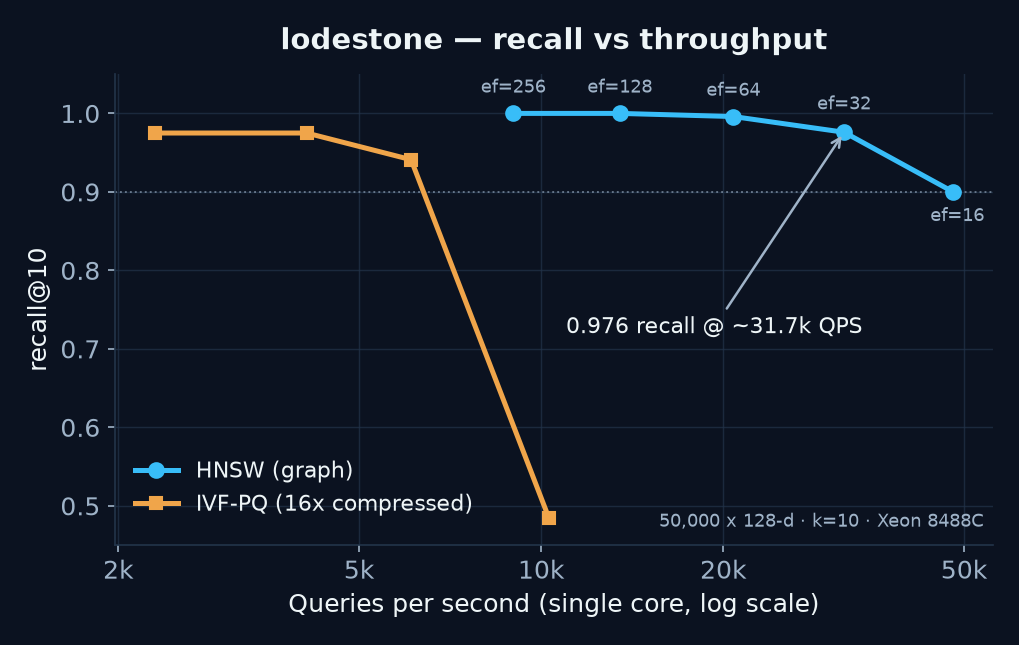
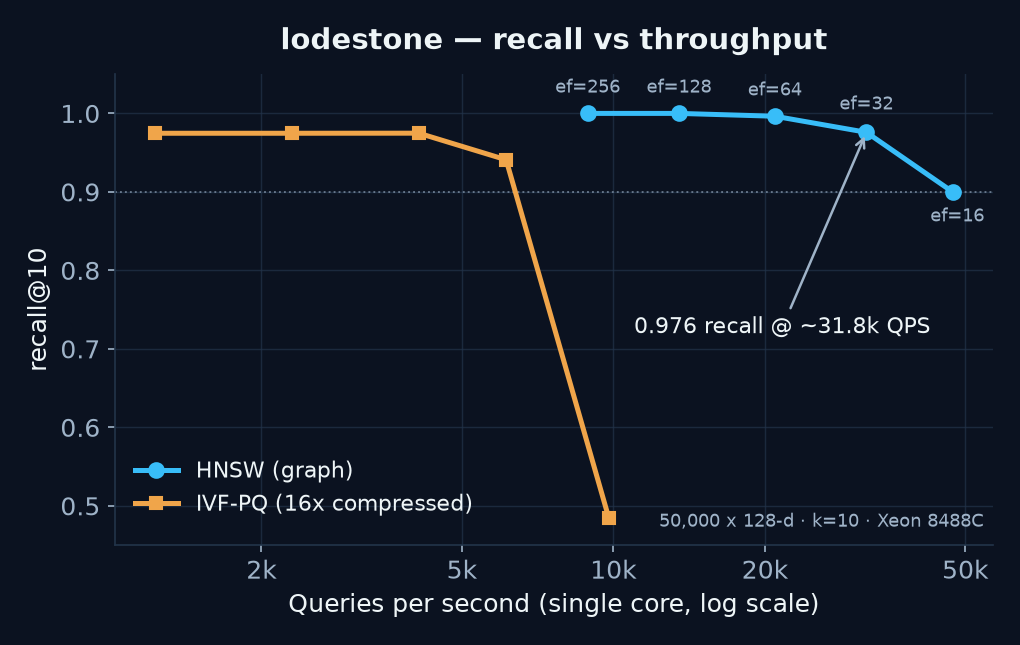
README+plot: use exact raw benchmark numbers, not rounded
The README table and benchmark plot rounded QPS loosely (e.g. 48,000 vs
raw 47,335; IVF-PQ nprobe=1 showed 10,300 vs raw 9,797) and dropped the
nprobe=32 row. Use the exact values from benchmarks/raw/bench_50k_128d.txt
everywhere so a reader comparing to the committed artifact sees an exact
match. Regenerated docs/benchmark.png to match.

diff --git a/README.md b/README.md
@@ -45,30 +45,31 @@ Host: Intel Xeon Platinum 8488C (48 vCPU, AVX-512), Rust 1.95, single-core query
 timing. Corpus: 50,000 × 128-d seeded clustered vectors, 1,000 held-out queries,
 k=10. Full raw output: [`benchmarks/raw/bench_50k_128d.txt`](benchmarks/raw/bench_50k_128d.txt).
 
-![recall@10 vs single-core QPS for HNSW and IVF-PQ: HNSW holds 0.976 recall at ~31.7k QPS and reaches 1.0 at higher ef; IVF-PQ trades recall for 16x compression.](docs/benchmark.png)
+![recall@10 vs single-core QPS for HNSW and IVF-PQ: HNSW holds 0.976 recall at ~31.8k QPS and reaches 1.0 at higher ef; IVF-PQ trades recall for 16x compression.](docs/benchmark.png)
 
 ### HNSW (graph index) — recall@10 vs QPS
 
 | `ef` | recall@10 | QPS (1 core) |
 |---:|---:|---:|
-| 16  | 0.900 | 48,000 |
-| 32  | 0.976 | 31,700 |
-| 64  | 0.996 | 20,800 |
-| 128 | 1.000 | 13,500 |
-| 256 | 1.000 |  9,000 |
+| 16  | 0.8996 | 47,335 |
+| 32  | 0.9759 | 31,845 |
+| 64  | 0.9964 | 20,946 |
+| 128 | 1.0000 | 13,514 |
+| 256 | 1.0000 |  8,898 |
 
-The exact brute-force oracle sustains ~1,000 QPS scanning the full corpus in
+The exact brute-force oracle sustains ~970 QPS scanning the full corpus in
 parallel across 48 cores; HNSW reaches the same recall on **one** core at
-13–48k QPS.
+9–47k QPS.
 
 ### IVF-PQ (compressed index) — recall@10 vs QPS at 16x compression
 
 | `nprobe` | recall@10 | QPS (1 core) |
 |---:|---:|---:|
-| 1  | 0.485 | 10,300 |
-| 4  | 0.941 |  6,100 |
-| 8  | 0.975 |  4,100 |
-| 16 | 0.975 |  2,300 |
+| 1  | 0.4850 |  9,797 |
+| 4  | 0.9409 |  6,128 |
+| 8  | 0.9748 |  4,110 |
+| 16 | 0.9747 |  2,305 |
+| 32 | 0.9747 |  1,229 |
 
 Product quantization stores each vector as 32 bytes instead of 512 (**16x
 smaller**); the recall product quantization loses is recovered by exact